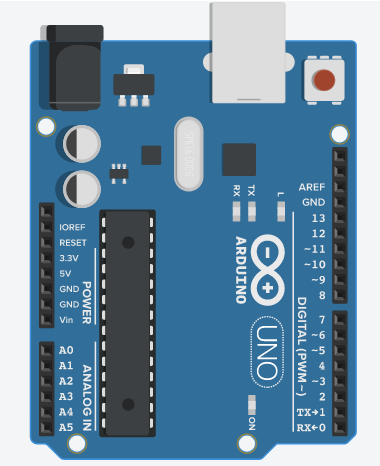
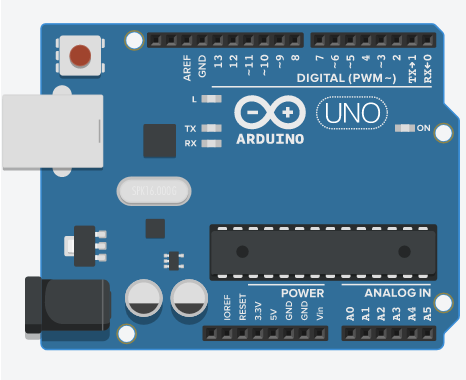
.

diff --git a/1 - Hello World/Hello World.md b/1 - Hello World/Hello World.md
@@ -19,25 +19,35 @@ Para fazer um programa p/ o Arduino e testa-lo precisaremos da Arduino IDE e do 
 <a href="https://www.google.com/amp/s/www.blogdarobotica.com/2020/03/21/instalando-driver-serial-para-arduinos-com-chip-ch340/amp/"> Driver CH340 </a></br></br>
 
 #
-
 <b><h3> O que é um Arduino </h2></b>
 
 Arduino é uma plataforma de prototipagem criada com o objetivo de facilitar o ensino de programação e eletrônica p/ jovens. Pela facilidade foi adotado pela comunidade do “faça você mesmo”.
 (Foto do Arduino)
 Ele possuí um conector P4 para alimentação, podendo receber até no máximo 9V e no mínimo 5V; Um conector USB tipo B por onde o Arduino é gravado; e os conectores de barra que são por onde acessamos as entradas e saída do Arduino.
 
+<img src="./../source/arduino.png" width=349 height=285></br>
+</br></br>
+
+#
 <b><h3> O que é uma Protoboard </b></h3>
 
 Protoboard ou placa de ensaio é uma placa com orifício utilizada para montar circuitos eletrônicos.
 (Foto com o esquema de ligação)
 As orifícios em linha estão conectados, as colunas não.
 
+<img src="./../source/protoboard.png" width=213 height=313></br>
+</br></br>
+
+#
 <b><h3> O que é um Resistor </b></h3>
 
 <p>O resistor é um dos componentes mais básicos da eletrônica e sua função é resistir a passagem de energia transformando eletricidade em energia térmica.
 Os valores de resistência são determinados pelas listras coloridas em seu corpo, cada linha tem um valor e esse valor pode ser encontrado na tabela.
 O que é um #Led
-O led, sigla p/ light emmiting diode, ou diodo emissor de luz é um componente eletrônico que em resumo emite luz quando atravessado pela energia elétrica.</p></br></br>
+O led, sigla p/ light emmiting diode, ou diodo emissor de luz é um componente eletrônico que em resumo emite luz quando atravessado pela energia elétrica.</p>
+
+<img src="./../source/resistor.png" width=269 height=110></br>
+</br></br></br>
 
 #
 Após a instalação do Arduino IDE e do driver CH340 podemos iniciar o equivalente ao “hello world” do Arduino, o programa Blink.
